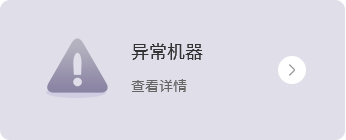
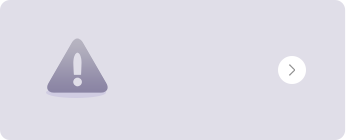
MultiLanguage

Changed region(s): [[0.3757, 0.3143, 0.6069, 0.4286], [0.3757, 0.5714, 0.5491, 0.6571]]

diff --git a/pc-antd/src/components/Search/index.js b/pc-antd/src/components/Search/index.js
@@ -1,12 +1,21 @@
 import React from 'react';
 import { Link } from 'react-router-dom';
 import { Card, Row, Col } from 'antd';
+import { FormattedMessage } from 'react-intl';
 import GridContent from '../GridContent';
 import SearchForm from './SearchForm';
 import abnormal_img from '../../assets/search_a.png';
 import all_img from '../../assets/search_b.png';
 import global_img from '../../assets/search_c.png';
 import './index.less';
+
+const NavCard = ({img, title})=> { 
+    return (
+        <div className="nav_pannel" style={{backgroundImage: `url(${img})`}}>
+            <div><span className="nav_title">{title}</span><span className="nav_subtitle"><FormattedMessage id="machine.detail" /></span></div>
+        </div>
+    )
+}
 
 class Search extends React.PureComponent {
 
@@ -23,7 +32,7 @@ class Search extends React.PureComponent {
                             <Card
                                 hoverable
                                 style={{ width: 346, height: 140, border: 0 }}
-                                cover={<img alt="" src={abnormal_img} />}
+                                cover={<NavCard img={abnormal_img} title={<FormattedMessage id="machine.abnormal" />} />}
                             />
                         </Link>
                     </Col>

diff --git a/pc-antd/src/components/SiderMenu/BaseMenu.js b/pc-antd/src/components/SiderMenu/BaseMenu.js
@@ -1,6 +1,7 @@
 import React, { PureComponent } from 'react';
 import { Menu, Icon } from 'antd';
 import { Link } from 'react-router-dom';
+import { FormattedMessage } from 'react-intl';
 import isEqual from 'lodash/isEqual';
 import memoizeOne from 'memoize-one';
 import pathToRegexp from 'path-to-regexp';
@@ -139,7 +140,7 @@ export default class BaseMenu extends PureComponent {
         }
       >
         {icon}
-        <span>{name}</span>
+        <span><FormattedMessage id={name} /></span>
         <span className="dot"></span>
       </Link>
     );

diff --git a/pc-antd/src/components/layouts/router.config.js b/pc-antd/src/components/layouts/router.config.js
@@ -2,18 +2,18 @@ export default [
       { path: '/', redirect: '/search' },
       {
         path: '/search',
-        name: '搜索页',
+        name: 'app.searchpage',
       },
       {
         path: '/abnormals',
-        name: '异常机器',
+        name: 'machine.abnormal',
       },
       {
         path: '/machines',
-        name: '全部设备',
+        name: 'machine.all',
       },
       {
         path: '/distribution',
-        name: '全球分布',
+        name: 'machine.distribution',
       },
 ];

diff --git a/pc-antd/src/components/Search/index.less b/pc-antd/src/components/Search/index.less
@@ -4,6 +4,22 @@
 .ant-card {
     border-radius: 20px;
     margin-top: 30px;
+
+    .nav_pannel {
+        display: flex;
+        display: -webkit-flex;
+        align-items: center;
+        justify-content: center;
+
+        .nav_title {
+            display: block;
+            font-size: 18px;
+        }
+
+        .nav_subtitle {
+            display: block;
+        }
+    }
 }
 
 .search_btn {
